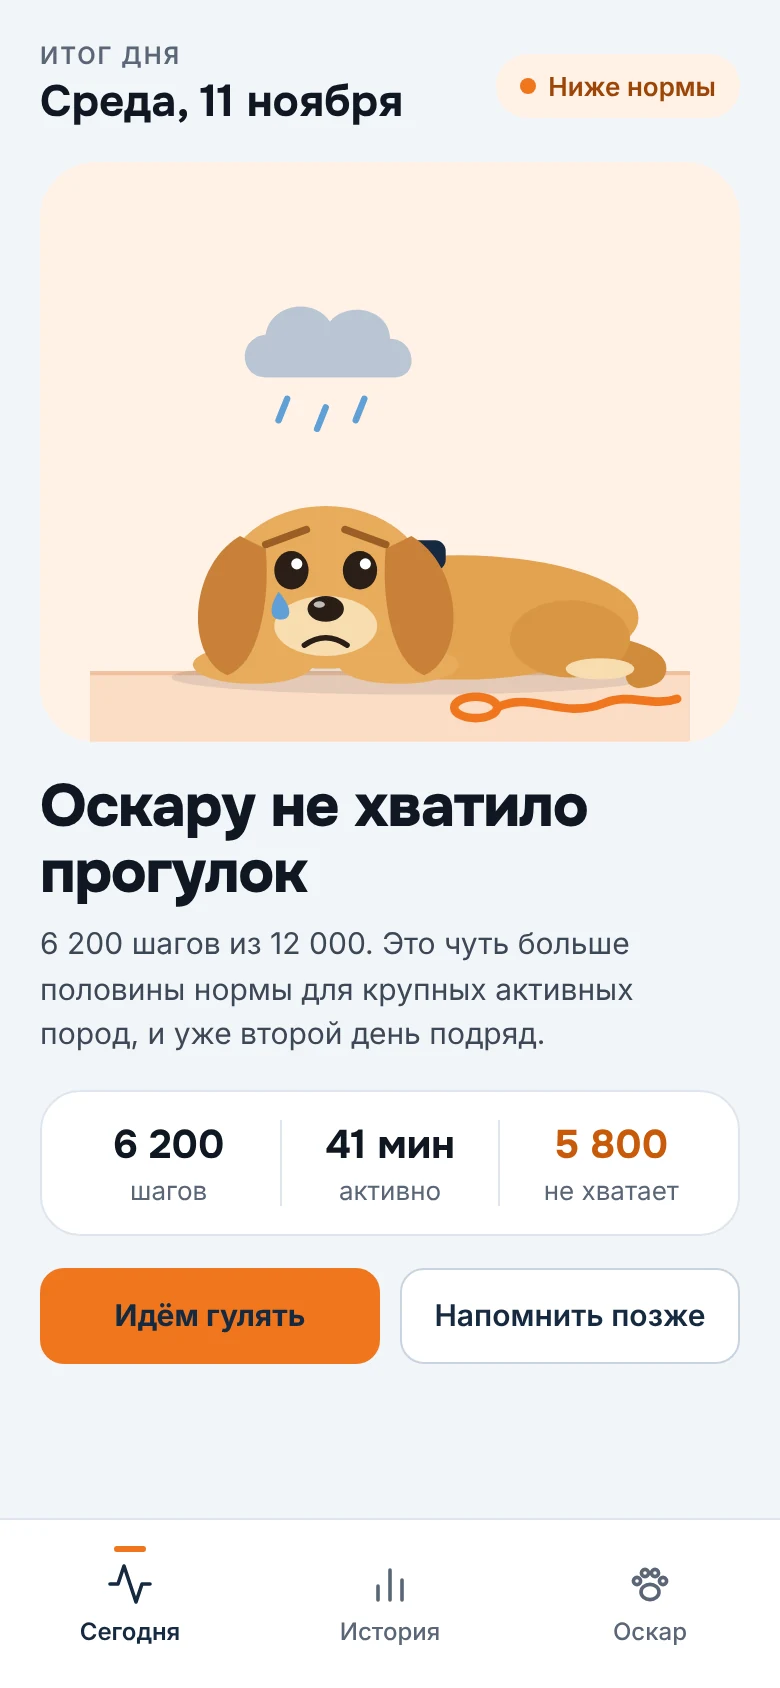
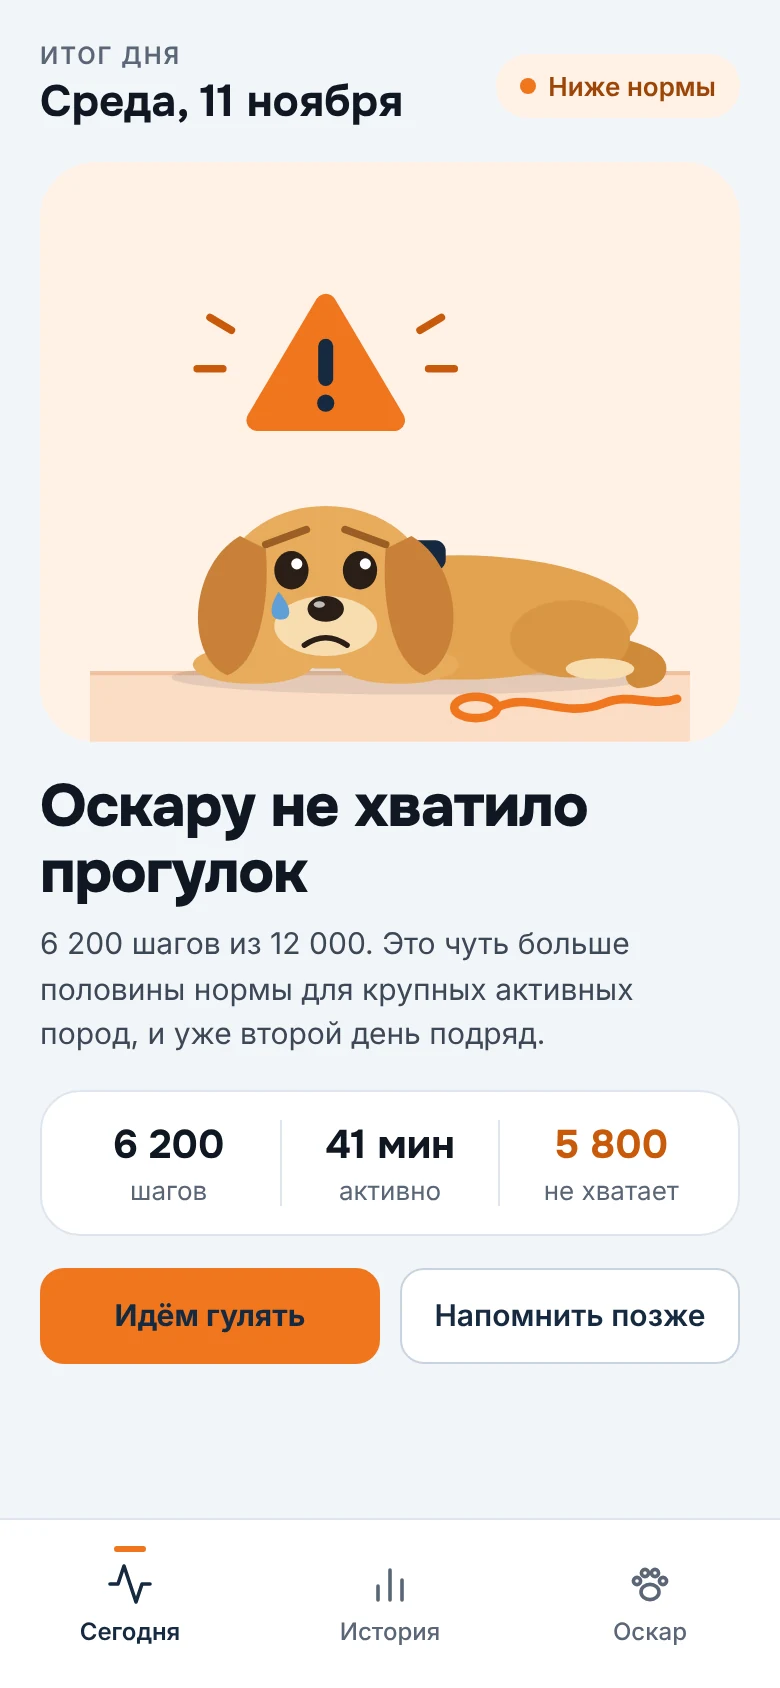
Daily summary: warning sign instead of rain cloud on the below-norm screen
Claude-Session: https://claude.ai/code/session_01DMHB4S36rPJ7DdqJhvrQfJ

Changed region(s): [[0.2769, 0.154, 0.5846, 0.2773], [0.2462, 0.2156, 0.2769, 0.2464]]

diff --git a/index.html b/index.html
@@ -311,7 +311,7 @@
         <figure class="phone-fig">
           <div class="phone">
             <img src="app-itog-malo.webp" width="780" height="1688" loading="lazy"
-                 alt="Экран «Итог дня»: мультяшный Оскар грустно лежит на полу, 6 200 шагов из 12 000, кнопка «Идём гулять»">
+                 alt="Экран «Итог дня»: мультяшный Оскар грустно лежит на полу под знаком предупреждения, 6 200 шагов из 12 000, кнопка «Идём гулять»">
           </div>
           <figcaption>Норма не выполнена</figcaption>
         </figure>
